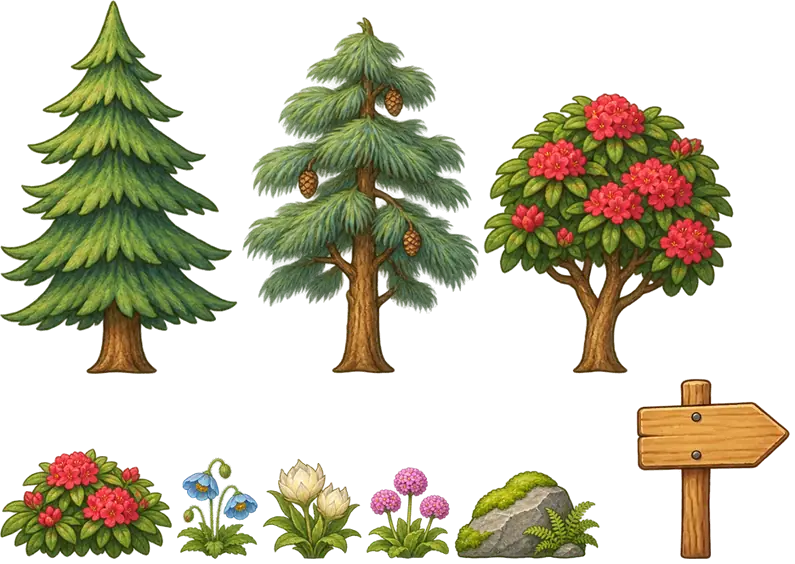
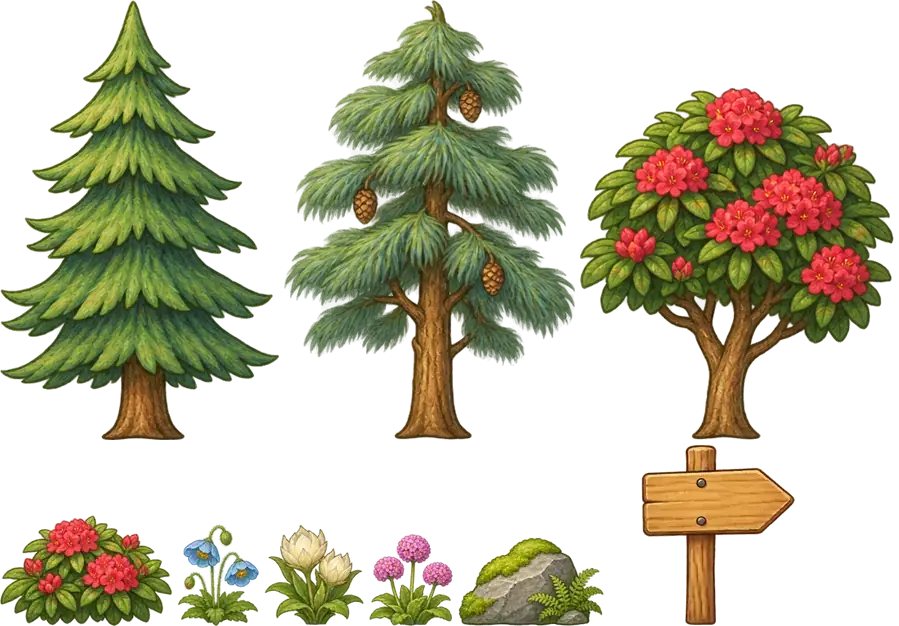
MTG2A03_L01_S03: hill game - route map to the hill's real shape with numbered stops and a mystery gift at the summit; trees twice the children's height; longer signboard, number centred

diff --git a/index.html b/index.html
@@ -7566,9 +7566,10 @@ else lastFrame[k.who] = undefined;
 
 let seed = 11; const rnd = ()=> (seed = (seed * 16807) % 2147483647) / 2147483647;
 
-const PROP = { deodar: [0, 0, 238, 374], pine: [242, 17, 237, 357], burans: [483, 93, 251, 281], shrub: [0, 448, 172, 111], poppy: [176, 457, 82, 102],
-kamal: [262, 459, 100, 101], primula: [366, 467, 84, 92], rock: [454, 470, 146, 89], sign: [604, 379, 186, 181] };
-const PHT = { deodar: [330, 430], pine: [310, 400], burans: [230, 290], shrub: [78, 100], poppy: [54, 68], kamal: [54, 66], primula: [48, 60], rock: [50, 66] };
+const PROP = { deodar: [0, 0, 279, 440], pine: [284, 0, 291, 440], burans: [580, 88, 314, 352], shrub: [0, 515, 172, 111], poppy: [177, 524, 82, 102],
+kamal: [264, 525, 100, 101], primula: [369, 534, 84, 92], rock: [458, 537, 146, 89], sign: [609, 445, 186, 181] };
+
+const PHT = { deodar: [500, 580], pine: [470, 540], burans: [340, 400], shrub: [78, 100], poppy: [54, 68], kamal: [54, 66], primula: [48, 60], rock: [50, 66] };
 const LOW = ["shrub", "poppy", "kamal", "primula", "rock", "poppy", "primula", "shrub"];
 const PROPS = [];
 
@@ -7630,11 +7631,14 @@ return { c, mx: (x0 + x1) / 2, my: (y0 + y1) / 2 };
 });
 const SIGNS = STOPS.map((x, i)=> ({ x: x + 300, n: i + 1 }));
 
-let SIGN_ART = null;
+let SIGN_ART = null; const SIGN_EXT = 64;
 function signArt(){
 if(SIGN_ART || !(IM.props.complete && IM.props.naturalWidth)) return SIGN_ART;
-const b = PROP.sign, c = document.createElement("canvas"); c.width = b[2]; c.height = b[3]; const x = c.getContext("2d");
-x.drawImage(IM.props, b[0], b[1], b[2], b[3], 0, 0, b[2], b[3]);
+
+const b = PROP.sign, c = document.createElement("canvas"); c.width = b[2] + SIGN_EXT; c.height = b[3]; const x = c.getContext("2d");
+x.drawImage(IM.props, b[0], b[1], 122, b[3], 0, 0, 122, b[3]);
+x.drawImage(IM.props, b[0] + 122, b[1], 14, b[3], 122, 0, 14 + SIGN_EXT, b[3]);
+x.drawImage(IM.props, b[0] + 136, b[1], b[2] - 136, b[3], 136 + SIGN_EXT, 0, b[2] - 136, b[3]);
 return (SIGN_ART = c);
 }
 function drawSign(sg){
@@ -7642,7 +7646,7 @@ function drawSign(sg){
 const b = PROP.sign, s = .64 / .85 * 1.15, y = Math.max(gy(sg.x - 14), gy(sg.x + 14)) - 8, art = signArt();
 if(!art) return;
 g.save(); g.translate(sg.x, y); g.scale(s, s); g.drawImage(art, -b[2] / 2, -b[3]);
-const ch = CHALK[sg.n - 1], k = 80 / 200, cx = 108.5 - b[2] / 2, cy = 58 - b[3];
+const ch = CHALK[sg.n - 1], k = 80 / 200, cx = (33 + 184 + SIGN_EXT) / 2 + 4 - b[2] / 2, cy = 58 - b[3];
 g.drawImage(ch.c, cx - ch.mx * k, cy - ch.my * k, 200 * k, 200 * k); g.restore();
 }
 
@@ -7949,24 +7953,58 @@ g.shadowColor = "transparent"; g.strokeStyle = b.k === K.a ? "#E2493B" : "#2F6FE
 g.fillStyle = "#24324A"; g.textAlign = "center"; g.textBaseline = "middle"; g.fillText(b.text, bx, by + 3); g.restore(); }
 }
 
-let mapDone = 0;
+let mapDone = 0, giftOpen = 0;
+function drawGift(X, Y, t){
+const op = giftOpen, pulse = .5 + .5 * Math.sin(t / 260);
+g.save(); g.translate(X, Y);
+const gl = g.createRadialGradient(0, -10, 2, 0, -10, 26 + 5 * pulse + 20 * op); gl.addColorStop(0, `rgba(255,214,90,${(.75 + .25 * op).toFixed(3)})`); gl.addColorStop(1, "rgba(255,214,90,0)");
+g.fillStyle = gl; g.beginPath(); g.arc(0, -10, 26 + 5 * pulse + 20 * op, 0, TAU); g.fill();
+for(let i = 0; i < 4; i++){ const an = t / 900 + i * TAU / 4, rr = 17 + 3 * Math.sin(t / 300 + i) + 26 * op, sx = Math.cos(an) * rr, sy = -11 + Math.sin(an) * rr * .7, k = (.55 + .45 * Math.sin(t / 180 + i * 1.7)) * (1 - op * .3);
+g.save(); g.translate(sx, sy); g.rotate(t / 700 + i); g.globalAlpha *= k; g.fillStyle = "#FFD23C"; g.beginPath();
+for(let j = 0; j < 8; j++){ const r2 = j % 2 ? 1.2 : 3.6, aa = j / 8 * TAU; g.lineTo(Math.cos(aa) * r2, Math.sin(aa) * r2); } g.closePath(); g.fill(); g.restore(); }
+const bob = (1 - op) * Math.sin(t / 330) * 1.2, wob = (1 - op) * Math.sin(t / 140) * .06 * (Math.sin(t / 1300) > .6 ? 1 : 0);
+g.translate(0, bob); g.rotate(wob);
+g.fillStyle = "#8E44D9"; g.strokeStyle = "#5B2496"; g.lineWidth = 1.4;
+g.beginPath(); g.roundRect(-9, -15, 18, 15, 2.5); g.fill(); g.stroke();
+g.fillStyle = "#FFC93C"; g.fillRect(-1.8, -15, 3.6, 15);
+if(op < .99){ g.save(); g.translate(0, -15 - op * 16); g.rotate(-op * .7); g.globalAlpha *= 1 - op;
+g.fillStyle = "#A35BEA"; g.strokeStyle = "#5B2496"; g.beginPath(); g.roundRect(-10.5, -5, 21, 5.5, 2); g.fill(); g.stroke();
+g.fillStyle = "#FFC93C"; g.fillRect(-1.8, -5, 3.6, 5.5); g.strokeStyle = "#E0A21C"; g.lineWidth = 1.8;
+g.beginPath(); g.ellipse(-3.6, -7.2, 3.6, 2.2, -.5, 0, TAU); g.ellipse(3.6, -7.2, 3.6, 2.2, .5, 0, TAU); g.stroke(); g.restore(); }
+if(op < .5){ g.globalAlpha *= 1 - op * 2; g.fillStyle = "#FFFFFF"; g.font = "800 12px 'Baloo 2',sans-serif"; g.textAlign = "center"; g.textBaseline = "middle"; g.fillText("?", 0, -6.5); }
+else { g.globalAlpha *= (op - .5) * 2; g.fillStyle = "#FFE35A"; g.strokeStyle = "#E0A21C"; g.lineWidth = 1.2; g.beginPath();
+for(let j = 0; j < 10; j++){ const r2 = j % 2 ? 3.4 : 8, aa = j / 10 * TAU - Math.PI / 2; g.lineTo(Math.cos(aa) * r2, -24 * (op - .5) * 2 - 12 + Math.sin(aa) * r2); } g.closePath(); g.fill(); g.stroke(); }
+g.restore();
+}
 function drawMap(t){
 setStage();
-const MW = 440, MH = 62, mx = W / 2 - MW / 2, my = 16, X0 = -150, X1 = FLAG_X + 60, HM = RISE * 6 + 60;
-const px = x => mx + 26 + (x - X0) / (X1 - X0) * (MW - 60), py = h => my + MH - 13 - h / HM * (MH - 34);
+const MW = 480, MH = 80, mx = W / 2 - MW / 2, my = 12, X0 = -150, X1 = FLAG_X + 160, HM = RISE * 6 + 40;
+const px = x => mx + 24 + (x - X0) / (X1 - X0) * (MW - 70), py = h => my + MH - 10 - h / HM * (MH - 44);
+const wxOf = sx => X0 + (sx - mx - 24) / (MW - 70) * (X1 - X0);
 g.save(); g.globalAlpha = clamp((cam.z - .45) / .3, 0, 1) * mapA;
-g.fillStyle = "rgba(255,255,255,.86)"; g.shadowColor = "rgba(20,40,30,.18)"; g.shadowBlur = 12; g.shadowOffsetY = 4;
-g.beginPath(); g.roundRect(mx, my, MW, MH, 31); g.fill(); g.shadowColor = "transparent";
-g.beginPath(); for(let x = X0; x <= X1; x += 40) g.lineTo(px(x), py(base(x))); g.lineWidth = 5; g.lineCap = "round"; g.lineJoin = "round";
-g.strokeStyle = "#CFE3C2"; g.stroke();
+g.fillStyle = "rgba(255,255,255,.9)"; g.shadowColor = "rgba(20,40,30,.18)"; g.shadowBlur = 12; g.shadowOffsetY = 4;
+g.beginPath(); g.roundRect(mx, my, MW, MH, 24); g.fill(); g.shadowColor = "transparent";
+g.save(); g.beginPath(); g.roundRect(mx, my, MW, MH, 24); g.clip();
+
+const route = []; for(let x = X0; x <= X1; x += 30) route.push([px(x), py(base(x))]);
+const land = []; for(let sx = mx - 2; sx <= mx + MW + 2; sx += 6) land.push([sx, py(base(clamp(wxOf(sx), X0, X1 + 400)))]);
+const hg = g.createLinearGradient(0, my + 24, 0, my + MH); hg.addColorStop(0, "#BFE3A4"); hg.addColorStop(1, "#7DBB5E");
+g.beginPath(); g.moveTo(mx - 2, my + MH); land.forEach(q => g.lineTo(q[0], q[1])); g.lineTo(mx + MW + 2, my + MH); g.closePath(); g.fillStyle = hg; g.fill();
+g.restore();
+
+const line = ()=>{ g.beginPath(); route.forEach((q, i)=> i ? g.lineTo(q[0], q[1]) : g.moveTo(q[0], q[1])); };
+g.lineCap = "round"; g.lineJoin = "round";
+line(); g.setLineDash([2, 7]); g.lineWidth = 3.4; g.strokeStyle = "#FFFFFF"; g.stroke(); g.setLineDash([]);
 const cur = K.p.x; g.save(); g.beginPath(); g.rect(mx, my, px(cur) - mx, MH); g.clip();
-g.beginPath(); for(let x = X0; x <= X1; x += 40) g.lineTo(px(x), py(base(x))); g.strokeStyle = "#4CAF50"; g.stroke(); g.restore();
+line(); g.lineWidth = 5; g.strokeStyle = "#2E9E48"; g.stroke(); g.restore();
+
+g.font = "800 11px 'Baloo 2',sans-serif"; g.textAlign = "center"; g.textBaseline = "middle";
 STOPS.forEach((x, i)=>{ const done = i < mapDone, here = !done && i === mapDone && Math.abs(cur - x) < 30, X = px(x), Y = py(base(x));
-const r = here ? 9 + 2 * Math.sin(t / 220) : 8; g.beginPath(); g.arc(X, Y, r, 0, TAU); g.fillStyle = done ? "#4CAF50" : here ? "#FFB300" : "#FFFFFF"; g.fill();
-g.lineWidth = 2.5; g.strokeStyle = done ? "#2E7D32" : "#9AB88E"; g.stroke();
-if(done){ g.strokeStyle = "#FFFFFF"; g.lineWidth = 2.6; g.beginPath(); g.moveTo(X - 4, Y); g.lineTo(X - 1, Y + 3); g.lineTo(X + 4, Y - 3); g.stroke(); } });
-{ const X = px(FLAG_X), Y = py(base(FLAG_X)), T = Math.max(my + 7, Y - 22); g.strokeStyle = "#5C6B7A"; g.lineWidth = 2.5; g.beginPath(); g.moveTo(X, Y); g.lineTo(X, T); g.stroke();
-for(let i = 0; i < 4; i++) for(let j = 0; j < 3; j++){ g.fillStyle = (i + j) % 2 ? "#FFFFFF" : "#222"; g.fillRect(X + 1 + i * 4, T + j * 4, 4, 4); } }
+const r = here ? 9.5 + 1.5 * Math.sin(t / 220) : 8.5; g.beginPath(); g.arc(X, Y, r, 0, TAU); g.fillStyle = done ? "#2E9E48" : here ? "#FFB300" : "#FFFFFF"; g.fill();
+g.lineWidth = 2.2; g.strokeStyle = done ? "#1E6E31" : here ? "#C98700" : "#8FAE84"; g.stroke();
+if(done){ g.strokeStyle = "#FFFFFF"; g.lineWidth = 2.4; g.beginPath(); g.moveTo(X - 4, Y); g.lineTo(X - 1, Y + 3); g.lineTo(X + 4, Y - 3); g.stroke(); }
+else { g.fillStyle = here ? "#FFFFFF" : "#5D7A55"; g.fillText(String(i + 1), X, Y + 1); } });
+drawGift(px(FLAG_X) + 16, py(base(FLAG_X + 110)) - 1, t);
 
 { const X = px(cur), Y = py(base(cur)), R = 7.5, cy = Y - 14;
 g.fillStyle = "rgba(30,50,40,.22)"; g.beginPath(); g.ellipse(X, Y + 1, 5, 2, 0, 0, TAU); g.fill();
@@ -8275,6 +8313,7 @@ await go; await S.wait(400);
 async function finale(){
 mode = "busy"; cam.auto = false;
 EQ.tween(9000, t =>{ dusk = t; }, u => u);
+EQ.tween(900, t =>{ giftOpen = t; }, eo);
 const c0 = { x: cam.x, y: cam.y, z: cam.z }, mid = (K.a.x + FLAG_X) / 2 + 30, c1 = { x: mid, y: gy(TOP) - 210, z: .9 };
 await tw(1400, t =>{ const e = eio(t); cam.x = lerp(c0.x, c1.x, e); cam.y = lerp(c0.y, c1.y, e); cam.z = lerp(c0.z, c1.z, e); });
 
@@ -8839,7 +8878,7 @@ const ASSET_SIZES = {
 "assets/hill_grass.webp": 4136,
 "assets/hill_pari_poses.webp": 149700,
 "assets/hill_pari_walk.webp": 152452,
-"assets/hill_props.webp": 78580,
+"assets/hill_props.webp": 92576,
 "assets/hill_trail.webp": 13058,
 "assets/last_swifty_end.webp": 627744,
 "assets/last_swifty_still.webp": 23820,
